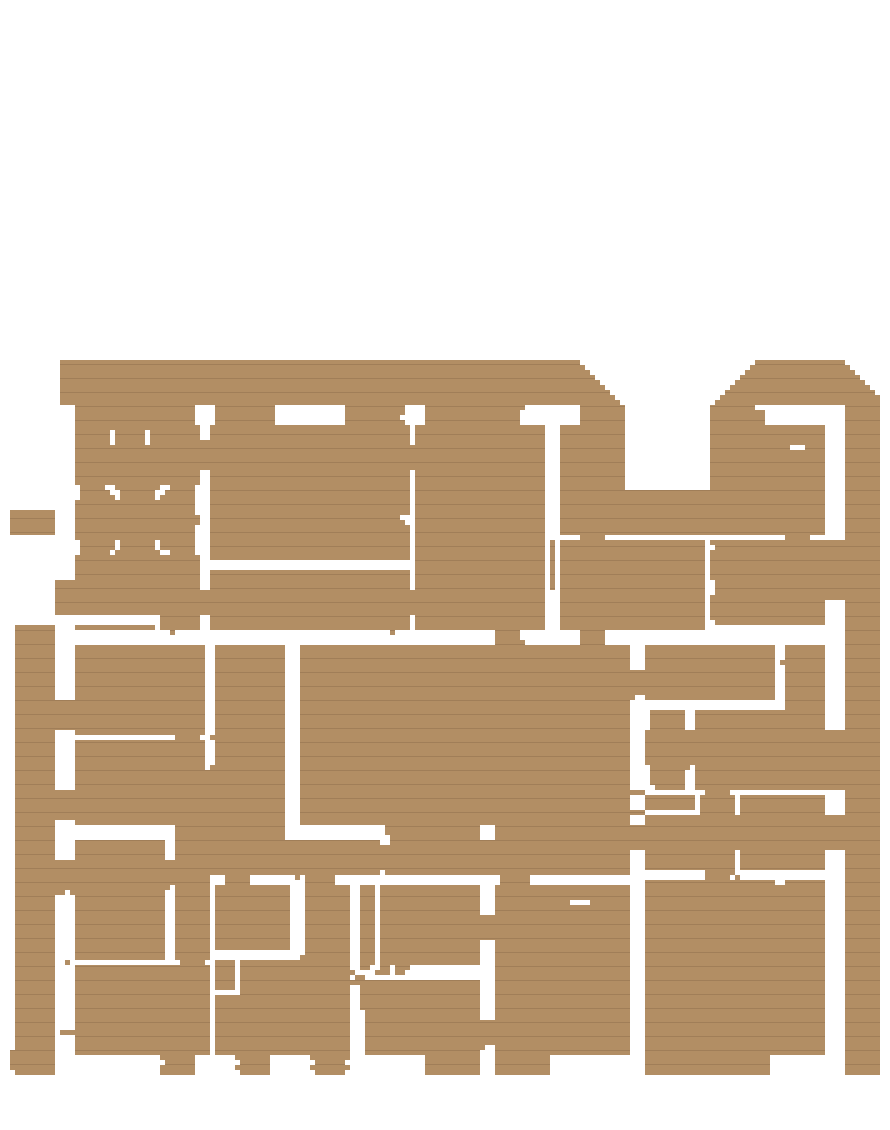
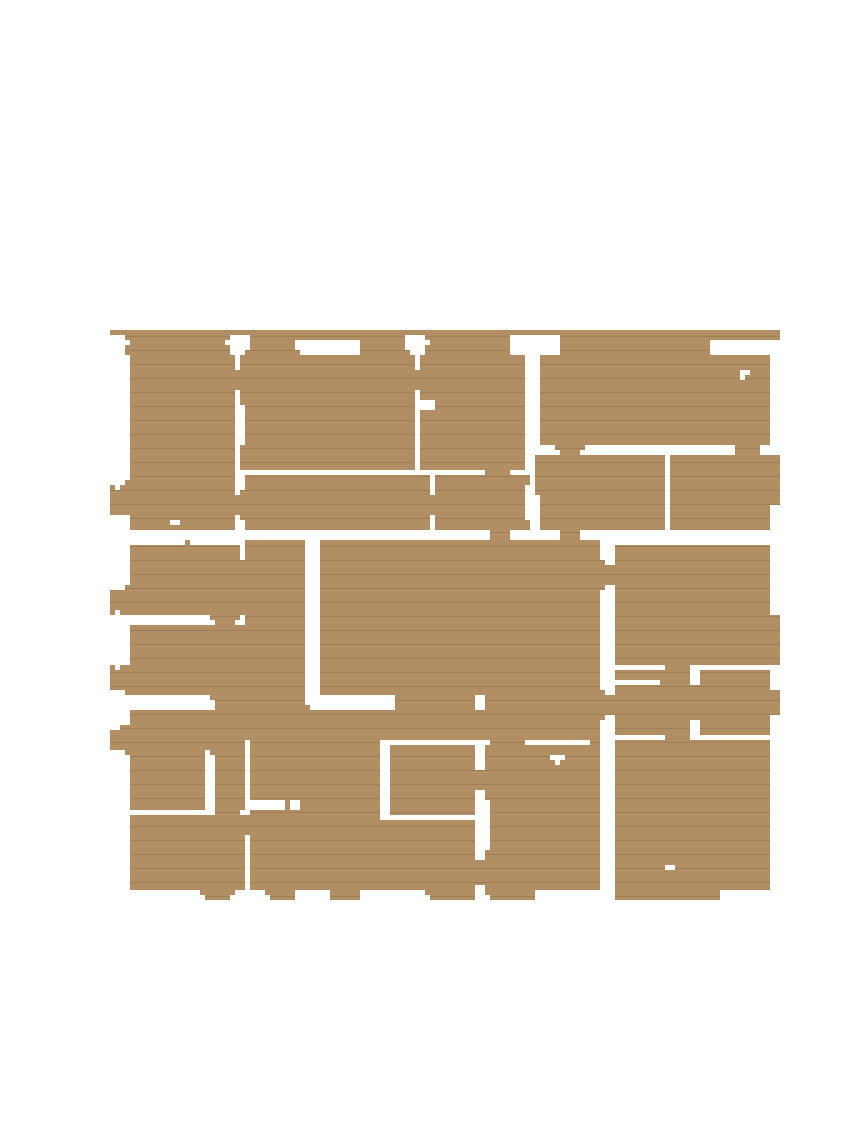
Заречная 36: 3D по АР — ворота гаража, заборы, откатные ворота, дорога, дорожка ко входу, живая изгородь и ели, скульптура во дворе, купол-фонарь, сосед Заречная 35
Claude-Session: https://claude.ai/code/session_01YWGRKAh4rQoZm423gX7eXq

diff --git a/index.html b/index.html
@@ -112,7 +112,7 @@ a.co:hover b{color:var(--bronze)}
 .pin.in{opacity:1;pointer-events:auto}
 .pin span{display:block;white-space:nowrap;background:rgba(23,19,15,.86);color:#f1e9dc;font:600 12px/1 var(--body);letter-spacing:.05em;padding:8px 12px;border-left:2px solid var(--bronze);box-shadow:0 6px 16px rgba(0,0,0,.35)}
 .pin span::after{content:"";position:absolute;left:50%;top:100%;width:1px;height:22px;background:rgba(23,19,15,.8)}
-.pin.np{cursor:default}.pin.np span{background:rgba(23,19,15,.6);border-left-color:transparent}
+.pin.nb{position:absolute;z-index:3;opacity:1;pointer-events:auto}.pin.nb span{background:var(--bronze);color:var(--ink);border-left-color:var(--ink)}.pin.np{cursor:default}.pin.np span{background:rgba(23,19,15,.6);border-left-color:transparent}
 .pin:not(.np):hover span{background:var(--bronze);color:var(--ink)}
 .room{position:absolute;inset:0;z-index:4;opacity:0;pointer-events:none;transition:opacity .7s;background:#000}.room.on{opacity:1;pointer-events:auto}.room img{width:100%;height:100%;object-fit:cover;display:block}.room div{position:absolute;inset:auto 0 0;padding:22px;display:flex;justify-content:space-between;align-items:end;gap:12px;flex-wrap:wrap;background:linear-gradient(transparent,rgba(23,19,15,.85))}.room b{font-family:var(--display);font-weight:400;font-size:clamp(28px,4vw,48px);line-height:1}
 .zm{position:absolute;left:16px;bottom:16px;display:flex;gap:8px;z-index:3}
@@ -271,7 +271,7 @@ const H={
   title:"Тот же проект, другой участок",
   story:["Дом построен по проекту Лазурной 19.2: каменный портал камина, остекление первого этажа, бассейн под одной крышей с домом.","Участок другой, поэтому посадка дома и виды из окон свои."]}
 };
-const H3D={l191:"l191"};
+const H3D={l191:"l191",z36:"z36"};
 const STREETS=[["Лазурная",["l11","l191","l192","l193"]],["Заречная",["z35","z36"]],["Речная",["r1","r2"]]];
 const order=STREETS.flatMap(s=>s[1]);
 
@@ -424,6 +424,9 @@ async function pie3d(){
  grp[0].add(boxes(G.slab,-.05,.02,M(0x3a2f25),.8,false));
  grp[1].add(boxes(G.slab,.03,.29,conc,0));
  grp[2].add(boxes(G.walls1,.3,3.7,wall));
+ const whiteM1=()=>MT(ctex(x=>{x.fillStyle="#e9e4da";x.fillRect(0,0,256,256);x.strokeStyle="rgba(120,112,100,.35)";for(let i=0;i<=256;i+=128){x.beginPath();x.moveTo(i,0);x.lineTo(i,256);x.stroke()}for(let i=0;i<=256;i+=64){x.beginPath();x.moveTo(0,i);x.lineTo(256,i);x.stroke()}noise(x,.03)},3),{roughness:.75});
+ if(G.skin1)grp[2].add(boxes(G.skin1,.3,3.4,whiteM1(),.06));
+ if(G.clad_garage)grp[2].add(boxes(G.clad_garage,.3,3.75,MT(ctex(x=>{x.fillStyle="#e6e1d8";x.fillRect(0,0,256,256);x.fillStyle="rgba(110,100,90,.35)";for(let i=0;i<256;i+=32)x.fillRect(i,0,1.5,256);noise(x,.03)},1.6),{roughness:.75}),.06));
  grp[3].add(floorPlane("tex1.png",.32),boxes(G.pool,.12,.33,water,0,false));
  const veneer=MT(veT,{roughness:.5}),walnut=M(0x4a3526,{roughness:.5}),chairM=M(0x8f7f6a,{roughness:.9}),stepM=M(0xb98d5c,{roughness:.5});
  const furn=(fl,y)=>[boxes(G["low"+fl],y,y+.5,sofa,-.06),boxes(G["low"+fl],y+.5,y+.62,M(0xe7dfd0,{roughness:1}),-.3,false),boxes(G["tall"+fl],y,y+2.6,veneer,-.04),boxes(G["table"+fl],y+.68,y+.78,walnut,-.04),boxes(G["table"+fl],y,y+.68,walnut,-.5,false),boxes(G["chair"+fl],y,y+.48,chairM,-.08),boxes(G["chair"+fl],y+.48,y+.95,chairM,-.34,false)];
@@ -444,14 +447,26 @@ async function pie3d(){
  for(let i=0,cl=[0x121316,0xe6e2da,0x26303a];i<G.cars.length;i+=3){const g=mkCar(cl[i/3%3]);g.position.set((G.cars[i]-CX)*u,.3,(G.cars[i+1]-CZ)*u);if(!G.cars[i+2])g.rotation.y=Math.PI/2;grp[4].add(g)}
  grp[5].add(boxes(G.slab2,3.71,3.98,ceil,0));
  grp[6].add(boxes(G.walls2,4,7.2,wall));
+ const whiteM=MT(ctex(x=>{x.fillStyle="#efece6";x.fillRect(0,0,256,256);x.strokeStyle="rgba(120,115,105,.35)";for(let i=0;i<=256;i+=64){x.beginPath();x.moveTo(i,0);x.lineTo(i,256);x.stroke()}for(let i=0;i<=256;i+=128){x.beginPath();x.moveTo(0,i);x.lineTo(256,i);x.stroke()}noise(x,.03)},3),{roughness:.7});
+ if(G.clad_wood)grp[6].add(boxes(G.clad_wood,4.0,7.2,MT(lamT,{roughness:.7}),.08));
+ if(G.clad_white)grp[6].add(boxes(G.clad_white,4.0,7.2,whiteM,.08));
  grp[7].add(floorPlane("tex2.png",4.02),...furn("2",4.02));
- grp[8].add(boxes(G.glass1,.31,3.38,glass,-.14,false),boxes(G.glass2,4.01,7.19,glass,-.14,false),boxes(G.glass1,.3,.42,frameM,-.08),boxes(G.glass1,3.24,3.39,frameM,-.08),boxes(G.glass2,4.0,4.1,frameM,-.08),boxes(G.glass2,7.08,7.2,frameM,-.08),boxes(G.house1,3.4,3.69,MT(stoneT),0));
+ grp[8].add(boxes(G.glass1,.31,3.38,glass,-.14,false),boxes(G.glass2,4.01,7.19,glass,-.14,false),boxes(G.glass1,.3,.42,frameM,-.08),boxes(G.glass1,3.24,3.39,frameM,-.08),boxes(G.glass2,4.0,4.1,frameM,-.08),boxes(G.glass2,7.08,7.2,frameM,-.08),boxes(G.house1,3.4,3.69,G.roofw?whiteM:MT(stoneT),G.roofw?.5:0));
+ if(G.gdoors)G.gdoors.forEach(([gx,gy,gw])=>{const d=new T.Mesh(unit,MT(ctex(x=>{x.fillStyle="#f2f0ec";x.fillRect(0,0,256,256);x.fillStyle="rgba(90,90,90,.35)";for(let i=0;i<256;i+=42)x.fillRect(0,i,256,2);for(let i=20;i<256;i+=60)x.fillRect(i,18,30,8)},4)));d.scale.set(gw*u,2.5,.15);d.position.set((gx+gw/2-CX)*u,1.55,(gy+1-CZ)*u+.14);grp[8].add(d)});
+ if(G.entry){const [ex,ey,ew]=G.entry,fr=new T.Mesh(unit,anth);fr.scale.set(ew*u,3.2,.5);fr.position.set((ex+ew/2-CX)*u,1.9,(ey-CZ)*u+.3);grp[8].add(fr);const dd=new T.Mesh(unit,veneer);dd.scale.set(ew*u*.45,2.7,.2);dd.position.set((ex+ew/2-CX)*u,1.65,(ey-CZ)*u+.56);grp[8].add(dd)}
+ if(G.ground_deck){const dk=ctex(x=>{for(let i=0;i<16;i++){x.fillStyle=`hsl(${28+Math.random()*6},${30+Math.random()*12}%,${40+Math.random()*10}%)`;x.fillRect(0,i*16,256,15)}},1.6);grp[3].add(boxes(G.ground_deck,0,.12,MT(dk,{roughness:.7}),0,false))}
  if(L191){const cx=(95-CX)*u,cz=(134-CZ)*u,can=new T.Mesh(unit,anth);can.scale.set(8.2,.4,4.2);can.position.set(cx,3.5,cz+.5);can.castShadow=true;grp[8].add(can);
   [-3.9,3.9].forEach(dx=>{const c=new T.Mesh(unit,anth);c.scale.set(.45,3.4,4.2);c.position.set(cx+dx,1.9,cz+.5);c.castShadow=true;grp[8].add(c)});
   const door=new T.Mesh(unit,veneer);door.scale.set(2.2,3,.16);door.position.set(cx,1.8,(128.4-CZ)*u);grp[8].add(door);
   const hnd=new T.Mesh(unit,M(0x2a2a2a,{metalness:.8,roughness:.3}));hnd.scale.set(.06,1.4,.08);hnd.position.set(cx+.7,1.8,(128.4-CZ)*u+.13);grp[8].add(hnd);
   const porch=new T.Mesh(unit,M(0xbdb5a6));porch.scale.set(10,.18,5.2);porch.position.set(cx,.2,cz+.7);porch.receiveShadow=true;grp[8].add(porch);}
- grp[9].add(boxes(G.eave,7.21,7.43,M(0xe6dfd2,{roughness:.8}),0),boxes(G.eave,7.43,7.5,anth,0,false),boxes(G.roof2,7.5,7.62,roofM,-.6,false));
+ if(G.roofw){grp[9].add(boxes(G.roofw,7.2,8.3,whiteM,0),boxes(G.roofm,8.3,8.36,roofM,0,false));
+  if(G.skylight){const [sx,sy,sw]=G.skylight,cx0=(sx+sw/2-CX)*u,cz0=(sy+sw/2-CZ)*u,hw=sw*u/2;
+  const curb=new T.Mesh(new T.BoxGeometry(sw*u+.8,.9,sw*u+.8),whiteM);curb.position.set(cx0,8.36+.45,cz0);curb.castShadow=true;grp[9].add(curb);
+  const py=new T.Mesh(new T.ConeGeometry(hw*Math.SQRT2,3.2,4,1),new T.MeshPhysicalMaterial({color:0xa9cddd,roughness:.03,metalness:.4,transparent:true,opacity:.62,envMapIntensity:1.8}));py.rotation.y=Math.PI/4;py.position.set(cx0,8.36+.9+1.6,cz0);grp[9].add(py);
+  const eg=new T.LineSegments(new T.EdgesGeometry(py.geometry),new T.LineBasicMaterial({color:0x2a2b2d}));eg.rotation.y=Math.PI/4;eg.position.copy(py.position);grp[9].add(eg);
+  for(let k=1;k<4;k++){const t=k/4,r=new T.Mesh(new T.BoxGeometry(sw*u*(1-t)+.05,.06,.06),M(0x2a2b2d));[[0,1],[0,-1]].forEach(([a,b])=>{const m1=r.clone();m1.position.set(cx0,8.36+.9+3.2*t,cz0+b*hw*(1-t));grp[9].add(m1);const m2=r.clone();m2.rotation.y=Math.PI/2;m2.position.set(cx0+b*hw*(1-t),8.36+.9+3.2*t,cz0);grp[9].add(m2)})}}}
+ else grp[9].add(boxes(G.eave,7.21,7.43,M(0xe6dfd2,{roughness:.8}),0),boxes(G.eave,7.43,7.5,anth,0,false),boxes(G.roof2,7.5,7.62,roofM,-.6,false));
  {const deckT=ctex(x=>{for(let i=0;i<16;i++){x.fillStyle=`hsl(${28+Math.random()*6},${30+Math.random()*12}%,${40+Math.random()*10}%)`;x.fillRect(0,i*16,256,15);x.fillStyle="rgba(40,25,12,.6)";x.fillRect(0,i*16+15,256,1);const o=Math.random()*256;x.fillRect(o,i*16,1,15)}noise(x,.05)},1.6);
   grp[9].add(boxes(G.terrace,3.99,4.05,MT(deckT,{roughness:.7}),0,false));
   const railG=new T.MeshPhysicalMaterial({color:0xcfe3ea,roughness:.02,metalness:.1,transparent:true,opacity:.28,envMapIntensity:1.5,side:T.DoubleSide});
@@ -468,21 +483,54 @@ async function pie3d(){
  const asph=MT(asT,{roughness:.92}),pave=MT(paveT),curbM=M(0xcfcac0,{roughness:.8});
  const EX=L191?(95-CX)*u:0,EZ=L191?(132-CZ)*u:HZ+2;
  if(L191){flat(10,15,asph,5.8,20.5);flat(52,7,asph,-21,24.5);}
+ else if(G.gdoors){const g0=G.gdoors[0],g1=G.gdoors[G.gdoors.length-1],x0=(g0[0]-CX)*u,x1=(g1[0]+g1[2]-CX)*u,z0=(g0[1]+1-CZ)*u,SI=G.site;
+  const dz=SI?SI.front-z0:22;flat(x1-x0+2,dz,asph,(x0+x1)/2,z0+dz/2);
+  if(SI){flat(260,8,asph,0,SI.road);
+   flat(1.8,SI.front-SI.path[1],pave,SI.path[0],(SI.front+SI.path[1])/2,0,.06);
+   const postM=M(0x2b2c2e,{roughness:.5,metalness:.4}),slatM=M(0x3a3b3e,{roughness:.6,metalness:.3});
+   const fence=(ax,az,bx,bz)=>{const L=Math.hypot(bx-ax,bz-az),n=Math.max(1,Math.round(L/2.5)),ang=Math.atan2(bz-az,bx-ax);for(let i=0;i<=n;i++){const t=i/n,p=new T.Mesh(new T.BoxGeometry(.15,2,.15),postM);p.position.set(ax+(bx-ax)*t,1,az+(bz-az)*t);p.castShadow=true;site.add(p)}
+    for(const h of [.35,.75,1.15,1.55,1.9]){const b=new T.Mesh(new T.BoxGeometry(L,.12,.05),slatM);b.position.set((ax+bx)/2,h,(az+bz)/2);b.rotation.y=-ang;b.castShadow=true;site.add(b)}};
+   const gx0=x0-1.2,gx1=x1+1.2;fence(-SI.fx,SI.front,gx0-2,SI.front);fence(gx1+.2,SI.front,SI.path[0]-1.4,SI.front);fence(SI.path[0]+1.4,SI.front,SI.fx,SI.front);
+   fence(-SI.fx,SI.front,-SI.fx,SI.back);fence(SI.fx,SI.front,SI.fx,SI.back);
+   {const gate=new T.Group(),gw=gx1-gx0;const fr=new T.Mesh(new T.BoxGeometry(gw,.12,.08),postM);fr.position.y=1.95;gate.add(fr);for(let i=0;i<Math.floor(gw/.22);i++){const sl=new T.Mesh(new T.BoxGeometry(.12,1.8,.06),slatM);sl.position.set(-gw/2+.11+i*.22,1,0);gate.add(sl)}
+    const rail=new T.Mesh(new T.BoxGeometry(gw*2,.1,.12),postM);rail.position.set(-gw/2,.05,0);gate.add(rail);gate.position.set((gx0+gx1)/2,0,SI.front);gate.traverse(o=>{if(o.isMesh)o.castShadow=true});site.add(gate);
+    [gx0-.15,gx1+.15].forEach(x=>{const p=new T.Mesh(new T.BoxGeometry(.3,2.2,.3),postM);p.position.set(x,1.1,SI.front);site.add(p)})}
+   const wk=new T.Mesh(new T.BoxGeometry(1.2,2.1,.06),slatM);wk.position.set(SI.path[0],1.05,SI.front);site.add(wk);
+  }}
  const curb=(x,z,w,d)=>{const c=new T.Mesh(new T.BoxGeometry(w,.16,d),curbM);c.position.set(x,.06,z);c.castShadow=true;site.add(c)};
  
  if(L191)flat(11,5,pave,EX,EZ+3,0,.06);
  const hedgeM=MT(ctex(x=>{x.fillStyle="#3f5f2c";x.fillRect(0,0,256,256);for(let i=0;i<3000;i++){x.fillStyle=`hsl(${95+Math.random()*25},${35+Math.random()*20}%,${18+Math.random()*18}%)`;x.beginPath();x.arc(Math.random()*256,Math.random()*256,1+Math.random()*2.5,0,7);x.fill()}},1.2),{roughness:1});
  let seed=7;const rnd=()=>(seed=(seed*16807)%2147483647)/2147483647;
- const GZ=-(HZ-29);const free=(x,z)=>!(z<-40+GZ&&Math.abs(x)<95)&&!(L191&&x<14&&x>-50&&z>14&&z<34)&&!(L191&&Math.abs(x-EX)<8&&z>EZ-2&&z<EZ+22)&&Math.hypot(x/(HX+10),z/(HZ+10))>1;
- const firs=[];for(let k=0;k<1200&&firs.length<95;k++){const a=rnd()*6.283,r=55+Math.pow(rnd(),.7)*120,x=Math.cos(a)*r,z=Math.sin(a)*r*.9;if(!free(x,z))continue;firs.push([x,z,9+rnd()*11])}
+ const PF=[],PB=[];
+ if(G.site){const SI=G.site,F=SI.fx;
+  // living green fence: clipped hedge along the back and both sides, inside the metal fence
+  const hedge=(x,z,w,d,h)=>{const m=new T.Mesh(new T.BoxGeometry(w,h,d),hedgeM);m.position.set(x,h/2,z);m.castShadow=m.receiveShadow=true;const uv=m.geometry.attributes.uv;for(let i=0;i<uv.count;i++)uv.setXY(i,uv.getX(i)*Math.max(w,d)/2.4,uv.getY(i)*h/2.4);site.add(m)};
+  hedge(0,SI.back+.9,2*F-.4,1.4,2.6);hedge(-F+.8,(SI.back+SI.front)/2,1.2,SI.front-SI.back-2,2.1);hedge(F-.8,(SI.back+SI.front)/2,1.2,SI.front-SI.back-2,2.1);
+  // spruce row behind the back hedge, before the golf course
+  for(let x=-F+2;x<=F-2;x+=5.2)PF.push([x+(rnd()-.5)*1.2,SI.back-1.6-rnd()*1.4,8+rnd()*4]);
+  // trees along the side fences: spruce and broadleaf alternating
+  for(const sx of [-1,1])for(let z=SI.back+7,k=0;z<SI.front-6;z+=8.5,k++){const x=sx*(F-3.4);if(k%2)PF.push([x,z,7+rnd()*3]);else PB.push([x,z])}
+  // front garden: sculpture on a stone plinth beside the entrance path, paved circle, boxwood balls
+  const sx0=SI.path[0]+7,sz0=(SI.path[1]+SI.front)/2+2;
+  const disc=new T.Mesh(new T.CylinderGeometry(3.2,3.2,.06,48),pave);disc.position.set(sx0,0,sz0);disc.receiveShadow=true;site.add(disc);
+  flat(SI.path[0]+7-SI.path[0]-1.3,1.2,pave,(SI.path[0]+.9+sx0-3.2)/2,sz0,0,.06);
+  const stone=M(0xe4dfd5,{roughness:.6}),bronze=M(0x8a6a3e,{roughness:.35,metalness:.85});
+  const pl=new T.Mesh(new T.BoxGeometry(1.3,1.1,1.3),stone);pl.position.set(sx0,.55,sz0);pl.castShadow=pl.receiveShadow=true;site.add(pl);
+  const sc=new T.Mesh(new T.TorusKnotGeometry(.55,.16,140,18,2,3),bronze);sc.scale.set(1,1.6,1);sc.position.set(sx0,2.2,sz0);sc.castShadow=true;site.add(sc);
+  const ballG=new T.IcosahedronGeometry(1,2);[[-2.4,0],[2.4,0],[0,-2.4],[0,2.4]].forEach(([dx,dz])=>{const b=new T.Mesh(ballG,hedgeM);b.scale.setScalar(.55);b.position.set(sx0+dx,.5,sz0+dz);b.castShadow=true;site.add(b)});
+  for(let z=SI.path[1]+3;z<SI.front-1;z+=4)[-1.6,1.6].forEach(dx=>{if(Math.abs(z-sz0)<1.6&&dx>0)return;const b=new T.Mesh(ballG,hedgeM);b.scale.setScalar(.45);b.position.set(SI.path[0]+dx,.4,z);b.castShadow=true;site.add(b)});
+ }
+ const GZ=-(HZ-29);const SIT=G.site;const GD=G.gdoors?[(G.gdoors[0][0]-CX)*u-2,(G.gdoors[G.gdoors.length-1][0]+G.gdoors[G.gdoors.length-1][2]-CX)*u+2,(G.gdoors[0][1]-CZ)*u]:null;const free=(x,z)=>!(SIT&&((Math.abs(x)<SIT.fx+3&&z>SIT.back-3&&z<SIT.road+6)||Math.abs(z-SIT.road)<6||(SIT.neighbor&&x>SIT.neighbor.dx-SIT.fx-4&&x<SIT.neighbor.dx+SIT.fx+4&&z>SIT.back-3&&z<SIT.road)))&&!(GD&&x>GD[0]-4&&x<GD[1]+4&&z>GD[2]-2&&z<GD[2]+26)&&!(z<-40+GZ&&Math.abs(x)<95)&&!(L191&&x<14&&x>-50&&z>14&&z<34)&&!(L191&&Math.abs(x-EX)<8&&z>EZ-2&&z<EZ+22)&&Math.hypot(x/(HX+10),z/(HZ+10))>1;
+ const firs=PF.slice();for(let k=0;k<1200&&firs.length<95+PF.length;k++){const a=rnd()*6.283,r=55+Math.pow(rnd(),.7)*120,x=Math.cos(a)*r,z=Math.sin(a)*r*.9;if(!free(x,z))continue;firs.push([x,z,9+rnd()*11])}
  const TIERS=7,cone=new T.ConeGeometry(1,1,12,1,true),leaf=new T.MeshStandardMaterial({color:0xffffff,roughness:.95,side:T.DoubleSide});
  const cones=new T.InstancedMesh(cone,leaf,firs.length*TIERS),trunks=new T.InstancedMesh(new T.CylinderGeometry(.14,.3,1,7),M(0x4b3a2c,{roughness:1}),firs.length);
  firs.forEach(([x,z,h],i)=>{dummy.rotation.set(0,0,0);dummy.position.set(x,h*.18,z);dummy.scale.set(1,h*.36,1);dummy.updateMatrix();trunks.setMatrixAt(i,dummy.matrix);
   const base=new T.Color().setHSL(.36+rnd()*.05,.28+rnd()*.1,.09+rnd()*.05);
   for(let c=0;c<TIERS;c++){const f=c/TIERS,w=h*.27*(1-f*.86)*(.9+rnd()*.2);dummy.position.set(x+(rnd()-.5)*.25,h*(.16+f*.78)+h*.07,z+(rnd()-.5)*.25);dummy.rotation.set((rnd()-.5)*.08,rnd()*3,(rnd()-.5)*.08);dummy.scale.set(w,h*.22,w);dummy.updateMatrix();cones.setMatrixAt(i*TIERS+c,dummy.matrix);cones.setColorAt(i*TIERS+c,base.clone().offsetHSL(0,0,f*.06))}});
  cones.castShadow=trunks.castShadow=cones.receiveShadow=true;site.add(cones,trunks);
- const nb=34,CL=7,crown=new T.InstancedMesh(new T.IcosahedronGeometry(1,2),new T.MeshStandardMaterial({color:0xffffff,roughness:1}),nb*CL),tr2=new T.InstancedMesh(new T.CylinderGeometry(.14,.26,1,7),M(0x5d4a39,{roughness:1}),nb);
- for(let n=0,k=0;n<nb&&k<1200;k++){const a=rnd()*6.283,r=46+rnd()*60,x=Math.cos(a)*r,z=Math.sin(a)*r*.9;if(!free(x,z))continue;const h=6+rnd()*5,col=new T.Color().setHSL(.22+rnd()*.06,.3+rnd()*.12,.17+rnd()*.07);
+ const nb=34+PB.length,CL=7,crown=new T.InstancedMesh(new T.IcosahedronGeometry(1,2),new T.MeshStandardMaterial({color:0xffffff,roughness:1}),nb*CL),tr2=new T.InstancedMesh(new T.CylinderGeometry(.14,.26,1,7),M(0x5d4a39,{roughness:1}),nb);
+ for(let n=0,k=0;n<nb&&k<1200;k++){let x,z;if(n<PB.length)[x,z]=PB[n];else{const a=rnd()*6.283,r=46+rnd()*60;x=Math.cos(a)*r;z=Math.sin(a)*r*.9;if(!free(x,z))continue}const h=6+rnd()*5,col=new T.Color().setHSL(.22+rnd()*.06,.3+rnd()*.12,.17+rnd()*.07);
   dummy.rotation.set(0,0,0);dummy.position.set(x,h*.3,z);dummy.scale.set(1,h*.6,1);dummy.updateMatrix();tr2.setMatrixAt(n,dummy.matrix);
   for(let c=0;c<CL;c++){const s2=h*(.18+rnd()*.12);dummy.position.set(x+(rnd()-.5)*h*.42,h*(.6+rnd()*.32),z+(rnd()-.5)*h*.42);dummy.scale.set(s2,s2*.82,s2);dummy.rotation.set(rnd()*3,rnd()*3,0);dummy.updateMatrix();crown.setMatrixAt(n*CL+c,dummy.matrix);crown.setColorAt(n*CL+c,col.clone().offsetHSL(0,0,(rnd()-.5)*.06))}n++}
  crown.castShadow=tr2.castShadow=crown.receiveShadow=true;site.add(crown,tr2);
@@ -501,12 +549,15 @@ async function pie3d(){
  {const PZ=-HZ-4;flat(16,7,pave,-12,PZ,0,.06);const lm=M(0xece6da,{roughness:.9}),wm=M(0x8a6440,{roughness:.6});
   [-18,-15,-12].forEach(x=>{const b=new T.Mesh(new T.BoxGeometry(.75,.3,2),wm);b.position.set(x,.2,PZ);const c=new T.Mesh(new T.BoxGeometry(.7,.12,1.9),lm);c.position.set(x,.41,PZ-.05);const back=new T.Mesh(new T.BoxGeometry(.7,.1,.7),lm);back.position.set(x,.62,PZ-.85);back.rotation.x=-.7;[b,c,back].forEach(o=>{o.castShadow=true;site.add(o)})});
   const up=new T.Mesh(new T.CylinderGeometry(.04,.04,2.4,6),M(0x666666));up.position.set(-7,1.2,PZ);const can=new T.Mesh(new T.ConeGeometry(1.6,.5,8,1,true),new T.MeshStandardMaterial({color:0xefe9dd,side:T.DoubleSide,roughness:.9}));can.position.set(-7,2.4,PZ);[up,can].forEach(o=>{o.castShadow=true;site.add(o)})}
+ if(SIT&&SIT.neighbor){const NB=SIT.neighbor;fetch(`pie/${NB.k}/geo.json`).then(r=>r.json()).then(N=>{const nw=N.W*u/2,nh=N.H*u/2,g=new T.Group(),bx=(r,y0,y1,m)=>{for(let i=0;i<r.length;i+=4){const b=new T.Mesh(unit,m);b.scale.set(r[i+2]*u,y1-y0,r[i+3]*u);b.position.set((r[i]+r[i+2]/2)*u-nw,(y0+y1)/2,(r[i+1]+r[i+3]/2)*u-nh);b.castShadow=b.receiveShadow=true;g.add(b)}};
+   bx(N.house1,0,3.5,M(0xe8e3da,{roughness:.8}));bx(N.roof2||[],3.5,7.0,MT(lamT,{roughness:.7}));bx(N.roof2||[],7.0,7.6,M(0xefece6));g.position.set(NB.dx,0,0);g.rotation.y=Math.PI;site.add(g);P3&&(P3.nb=[NB,new T.Vector3(NB.dx,11,0)])}).catch(()=>{})}
  const car={position:{x:0}};
  // controls
  const ctl=new T.OrbitControls(cam,cv);ctl.target.set(0,2.5,0);ctl.enableZoom=false;ctl.enablePan=false;ctl.maxPolarAngle=1.45;ctl.minPolarAngle=.25;ctl.enableDamping=true;ctl.autoRotateSpeed=.55;
  if(matchMedia("(pointer:coarse)").matches){ctl.enableRotate=false;cv.style.touchAction="pan-y"}
- const C0=new T.Vector3(-74,66,96).multiplyScalar(SC);cam.position.copy(C0);
+ const C0=(G.roofw?new T.Vector3(-70,44,100):new T.Vector3(-74,66,96)).multiplyScalar(SC);cam.position.copy(C0);
  const PP=L191?PINS.map(p=>[p[0],p[1]*2.2,p[2]*1.932,p[3],img(p[4])]):(G.pins||[]).map(p=>[p[0],p[1],p[2],p[3],p[4]?img(p[4]):""]);
+ document.getElementById("pins").insertAdjacentHTML("afterend",G.site&&G.site.neighbor?`<a class="pin nb in" id="nbpin" hidden href="#dom-${G.site.neighbor.k}"><span>${G.site.neighbor.name} — соседний дом →</span></a>`:"");
  document.getElementById("pins").innerHTML=PP.map((p,i)=>`<button class="pin${p[4]?"":" np"}" type="button" data-i="${i}" ${p[4]?`data-src="${p[4]}"`:""}><span>${p[0]}</span></button>`).join("");
  const pinEls=[...document.querySelectorAll("#pins .pin")],v=new T.Vector3();
  const S=P3={pp:PP,renderer,st:pieStep(),raf:0,dist:1,carZ:-90,lawn:0};
@@ -525,6 +576,7 @@ async function pie3d(){
   else if(S.back){ctl.target.lerp(v.set(0,2.5,0),.08);cam.position.lerp(C0,.06);if(cam.position.distanceTo(C0)<1)S.back=0}
   ctl.autoRotate=st>=10&&!S.fly&&!S.back;ctl.update();renderer.render(scene,cam);
   const w=stage.clientWidth,h=stage.clientHeight;
+ {const nbEl=document.getElementById("nbpin");if(S.nb&&st>=10){const pv=S.nb[1].clone().project(cam);nbEl.hidden=false;nbEl.style.left=(pv.x*.5+.5)*w+"px";nbEl.style.top=(-pv.y*.5+.5)*h+"px"}else if(nbEl)nbEl.hidden=true}
   pinEls.forEach((el,i)=>{const p=PP[i],fl=p[3],show=st>=10||(fl===1&&st===4)||(fl===2&&st===7);
    if(!show){el.classList.remove("in");return}
    v.set((p[1]-CX)*u,st>=10?(fl===1?9:12.5):(fl===1?4.6:8.2),(p[2]-CZ)*u).project(cam);
@@ -677,6 +729,5 @@ addEventListener("hashchange",route);route();
 const lb=document.getElementById("lb");
 document.addEventListener("click",e=>{const rx=e.target.closest("#roomx");if(rx){document.getElementById("room").classList.remove("on");if(P3)P3.fly=null;return}const pn=e.target.closest(".pin");if(pn&&!pn.dataset.src)return;if(pn&&P3){const p=P3.pp[+pn.dataset.i],rm=document.getElementById("room");rm.querySelector("img").src=pn.dataset.src;rm.querySelector("b").textContent=p[0];P3.fly=p;setTimeout(()=>rm.classList.add("on"),900);return}const b=e.target.closest(".gal button,.plans button,.draw button");if(b){lb.querySelector("img").src=b.dataset.src;lb.showModal()}else if(e.target.closest("#lb"))lb.close()});
 </script>
-
 </body>
 </html>
